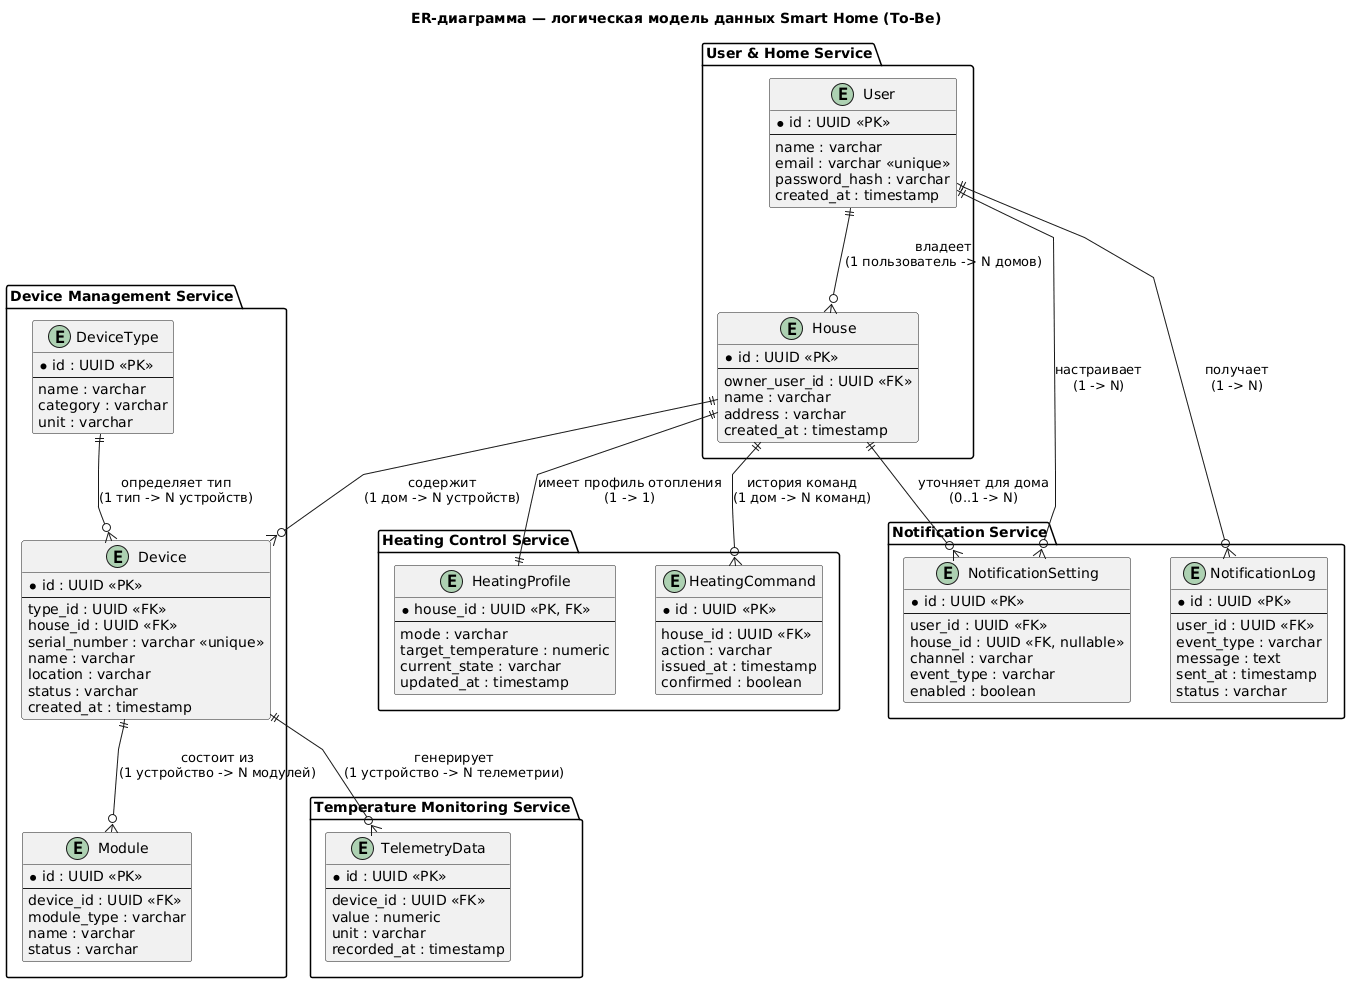
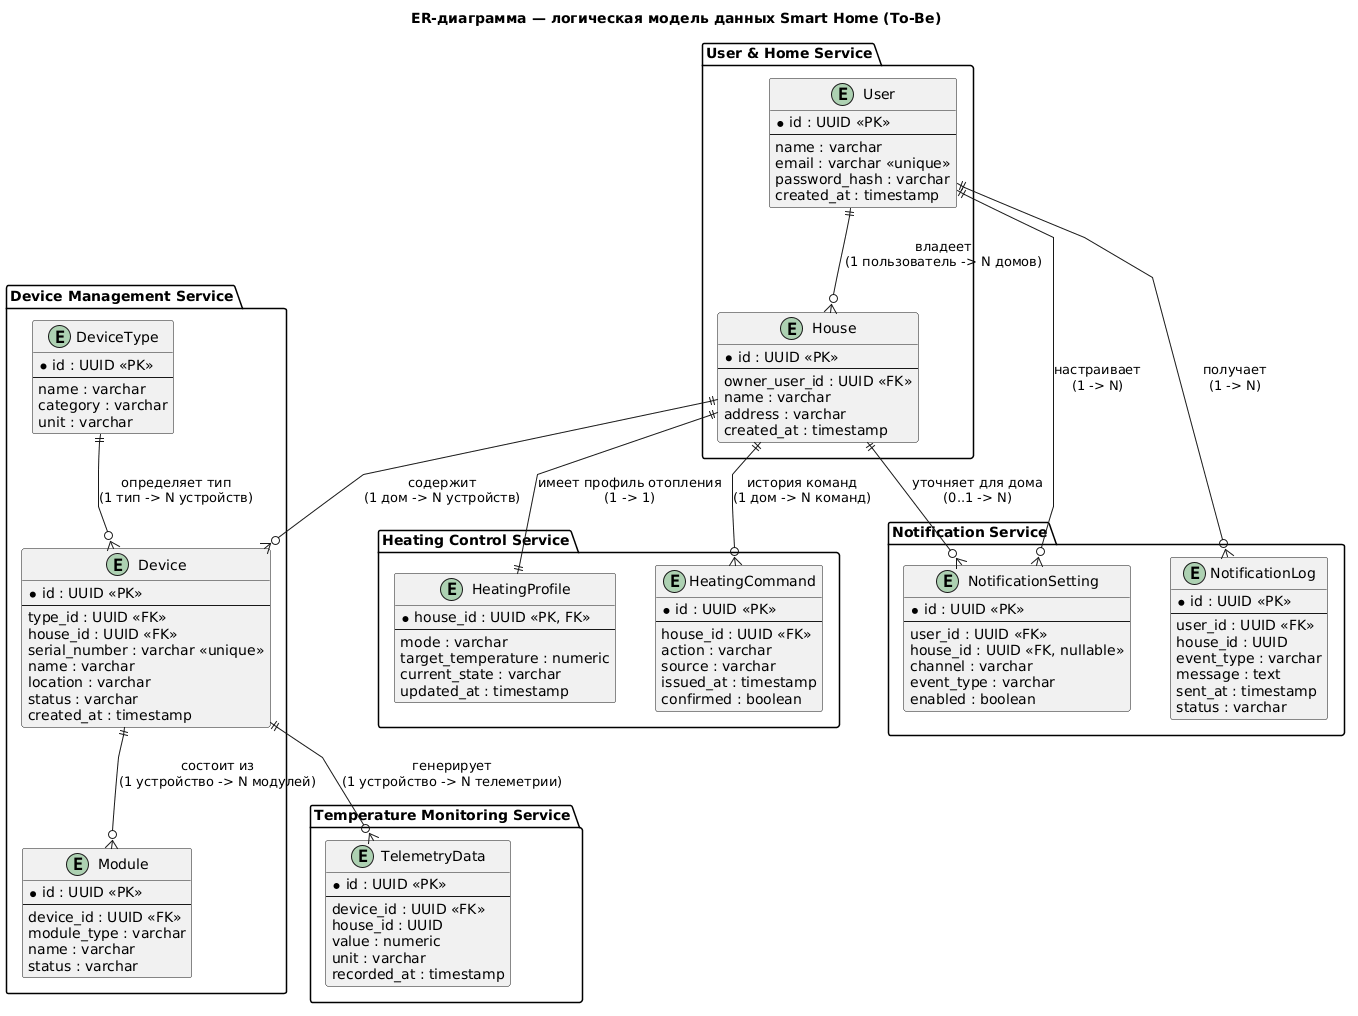
Task 3 follow-up: implement Module, reconcile ER diagram with real schema
- Add the Module entity to Device Management Service (it was named
  explicitly in the Task 3 assignment text as a required example
  entity but had been left out): model, EF config, migration, and
  POST/GET/DELETE /devices/{deviceId}/modules endpoints.
- Update docs/er/er-diagram.puml to match the actual implemented
  schema: TelemetryData and NotificationLog carry house_id (a
  deliberate denormalization to avoid an extra service call),
  HeatingCommand carries source (manual/auto).
- Update README to describe both changes and narrow the "known
  simplifications" list accordingly (NotificationSetting remains
  unimplemented; Module no longer does).

Claude-Session: https://claude.ai/code/session_01GfT16nNJiqSpdBryWYTrdj

diff --git a/apps/microservices/DeviceManagementService/Migrations/20260913080054_AddModule.cs b/apps/microservices/DeviceManagementService/Migrations/20260913080054_AddModule.cs
@@ -1,0 +1,48 @@
+using System;
+using Microsoft.EntityFrameworkCore.Migrations;
+
+#nullable disable
+
+namespace DeviceManagementService.Migrations
+{
+    /// <inheritdoc />
+    public partial class AddModule : Migration
+    {
+        /// <inheritdoc />
+        protected override void Up(MigrationBuilder migrationBuilder)
+        {
+            migrationBuilder.CreateTable(
+                name: "Modules",
+                columns: table => new
+                {
+                    Id = table.Column<Guid>(type: "uuid", nullable: false),
+                    DeviceId = table.Column<Guid>(type: "uuid", nullable: false),
+                    ModuleType = table.Column<string>(type: "text", nullable: false),
+                    Name = table.Column<string>(type: "text", nullable: false),
+                    Status = table.Column<string>(type: "text", nullable: false)
+                },
+                constraints: table =>
+                {
+                    table.PrimaryKey("PK_Modules", x => x.Id);
+                    table.ForeignKey(
+                        name: "FK_Modules_Devices_DeviceId",
+                        column: x => x.DeviceId,
+                        principalTable: "Devices",
+                        principalColumn: "Id",
+                        onDelete: ReferentialAction.Cascade);
+                });
+
+            migrationBuilder.CreateIndex(
+                name: "IX_Modules_DeviceId",
+                table: "Modules",
+                column: "DeviceId");
+        }
+
+        /// <inheritdoc />
+        protected override void Down(MigrationBuilder migrationBuilder)
+        {
+            migrationBuilder.DropTable(
+                name: "Modules");
+        }
+    }
+}

diff --git a/apps/microservices/DeviceManagementService/Program.cs b/apps/microservices/DeviceManagementService/Program.cs
@@ -149,4 +149,39 @@ app.MapDelete("/devices/{id:guid}", async (Guid id, DeviceDbContext db, Cancella
     return Results.Ok(new { message = "device deleted" });
 }).RequireAuthorization();
 
+static ModuleResponse ToModuleResponse(Module m) => new(m.Id, m.DeviceId, m.ModuleType, m.Name, m.Status);
+
+app.MapGet("/devices/{deviceId:guid}/modules", async (Guid deviceId, DeviceDbContext db, CancellationToken ct) =>
+{
+    var modules = await db.Modules.Where(m => m.DeviceId == deviceId).ToListAsync(ct);
+    return Results.Ok(modules.Select(ToModuleResponse));
+}).RequireAuthorization();
+
+app.MapPost("/devices/{deviceId:guid}/modules", async (Guid deviceId, CreateModuleRequest req, DeviceDbContext db, CancellationToken ct) =>
+{
+    if (!await db.Devices.AnyAsync(d => d.Id == deviceId, ct))
+    {
+        return Results.NotFound(new { error = "device not found" });
+    }
+
+    var module = new Module { DeviceId = deviceId, ModuleType = req.ModuleType, Name = req.Name };
+    db.Modules.Add(module);
+    await db.SaveChangesAsync(ct);
+
+    return Results.Created($"/devices/{deviceId}/modules/{module.Id}", ToModuleResponse(module));
+}).RequireAuthorization();
+
+app.MapDelete("/devices/{deviceId:guid}/modules/{moduleId:guid}", async (Guid deviceId, Guid moduleId, DeviceDbContext db, CancellationToken ct) =>
+{
+    var module = await db.Modules.SingleOrDefaultAsync(m => m.Id == moduleId && m.DeviceId == deviceId, ct);
+    if (module is null)
+    {
+        return Results.NotFound(new { error = "module not found" });
+    }
+
+    db.Modules.Remove(module);
+    await db.SaveChangesAsync(ct);
+    return Results.Ok(new { message = "module deleted" });
+}).RequireAuthorization();
+
 app.Run();

diff --git a/apps/microservices/DeviceManagementService/Migrations/20260913080054_AddModule.Designer.cs b/apps/microservices/DeviceManagementService/Migrations/20260913080054_AddModule.Designer.cs
@@ -3,6 +3,7 @@ using System;
 using DeviceManagementService.Data;
 using Microsoft.EntityFrameworkCore;
 using Microsoft.EntityFrameworkCore.Infrastructure;
+using Microsoft.EntityFrameworkCore.Migrations;
 using Microsoft.EntityFrameworkCore.Storage.ValueConversion;
 using Npgsql.EntityFrameworkCore.PostgreSQL.Metadata;
 
@@ -11,9 +12,11 @@ using Npgsql.EntityFrameworkCore.PostgreSQL.Metadata;
 namespace DeviceManagementService.Migrations
 {
     [DbContext(typeof(DeviceDbContext))]
-    partial class DeviceDbContextModelSnapshot : ModelSnapshot
+    [Migration("20260913080054_AddModule")]
+    partial class AddModule
     {
-        protected override void BuildModel(ModelBuilder modelBuilder)
+        /// <inheritdoc />
+        protected override void BuildTargetModel(ModelBuilder modelBuilder)
         {
 #pragma warning disable 612, 618
             modelBuilder

diff --git a/apps/microservices/DeviceManagementService/Data/DeviceDbContext.cs b/apps/microservices/DeviceManagementService/Data/DeviceDbContext.cs
@@ -7,6 +7,7 @@ public class DeviceDbContext(DbContextOptions<DeviceDbContext> options) : DbCont
 {
     public DbSet<DeviceType> DeviceTypes => Set<DeviceType>();
     public DbSet<Device> Devices => Set<Device>();
+    public DbSet<Module> Modules => Set<Module>();
 
     protected override void OnModelCreating(ModelBuilder modelBuilder)
     {
@@ -21,5 +22,14 @@ public class DeviceDbContext(DbContextOptions<DeviceDbContext> options) : DbCont
         });
 
         modelBuilder.Entity<DeviceType>().HasIndex(t => t.Name).IsUnique();
+
+        modelBuilder.Entity<Module>(entity =>
+        {
+            entity.HasIndex(m => m.DeviceId);
+            entity.HasOne(m => m.Device)
+                .WithMany()
+                .HasForeignKey(m => m.DeviceId)
+                .OnDelete(DeleteBehavior.Cascade);
+        });
     }
 }

diff --git a/apps/microservices/DeviceManagementService/Models/Module.cs b/apps/microservices/DeviceManagementService/Models/Module.cs
@@ -1,0 +1,15 @@
+namespace DeviceManagementService.Models;
+
+// A logical sub-component of a physical device (e.g. a hub exposing several
+// sensor/actuator channels). Named explicitly in the Task 3 assignment text
+// as a required example entity.
+public class Module
+{
+    public Guid Id { get; set; } = Guid.NewGuid();
+    public Guid DeviceId { get; set; }
+    public string ModuleType { get; set; } = string.Empty;
+    public string Name { get; set; } = string.Empty;
+    public string Status { get; set; } = "enabled";
+
+    public Device? Device { get; set; }
+}

diff --git a/apps/microservices/DeviceManagementService/Dtos.cs b/apps/microservices/DeviceManagementService/Dtos.cs
@@ -12,3 +12,6 @@ public record DeviceResponse(
     string Location,
     string Status,
     DateTimeOffset CreatedAt);
+
+public record CreateModuleRequest(string ModuleType, string Name);
+public record ModuleResponse(Guid Id, Guid DeviceId, string ModuleType, string Name, string Status);

diff --git a/README.md b/README.md
@@ -141,6 +141,8 @@
 
 Поскольку архитектура построена по принципу database-per-service, физически эти таблицы находятся в разных базах данных разных сервисов — на диаграмме показана единая логическая модель, а группировка `package` отражает, за каким сервисом данные закреплены; при необходимости связи между сущностями разных сервисов (например, `Device.house_id → House.id`) резолвятся синхронным вызовом (как показано на диаграмме контейнеров, Задание 2), а не внешним ключом на уровне БД.
 
+Диаграмма выверена по фактической схеме реализации (см. «Дополнительно» в конце файла): `TelemetryData` и `NotificationLog` хранят `house_id` напрямую (без FK — это денормализация ради запросов без лишнего межсервисного вызова), а `HeatingCommand` дополнительно хранит `source` (`manual`/`auto`).
+
 Исходник: [`docs/er/er-diagram.puml`](docs/er/er-diagram.puml).
 
 ![ER-диаграмма Smart Home](docs/er/er-diagram.png)
@@ -286,7 +288,7 @@ docker compose up --build
 ## Осознанные упрощения относительно диаграмм Задания 2
 
 - Общий symmetric JWT-ключ передаётся как обычная переменная окружения с dev-значением по умолчанию — для реального окружения его нужно заменить и хранить как секрет.
-- Сущность `Module` из ER-диаграммы не реализована (только `DeviceType`/`Device`) — не требовалась ни одним из построенных сценариев.
+- Сущность `NotificationSetting` из ER-диаграммы не реализована — Notification Service пока уведомляет всегда (по фиксированным правилам: аномальная температура, любая смена состояния отопления), без пользовательских настроек подписки. `Module`, ранее тоже не реализованный, добавлен в Device Management Service (`POST/GET/DELETE /devices/{deviceId}/modules`).
 - Проверка прав доступа к дому в Device Management Service выполняется только на создании устройства, не на чтении (осознанное упрощение, чтобы не проверять авторизацию на каждом read-эндпоинте).
 - «Оборудование отопления» и канал уведомлений (Email/Push) — симулированы (лог + короткая задержка), так как реальных внешних систем для них нет.
 - Temperature Monitoring Service узнаёт, какие датчики опрашивать, через явную регистрацию (`POST .../temperature/watches`), а не через синхронный вызов Device Management Service — такой связи не было на диаграмме контейнеров Задания 2, поэтому её не стали добавлять неявно.
